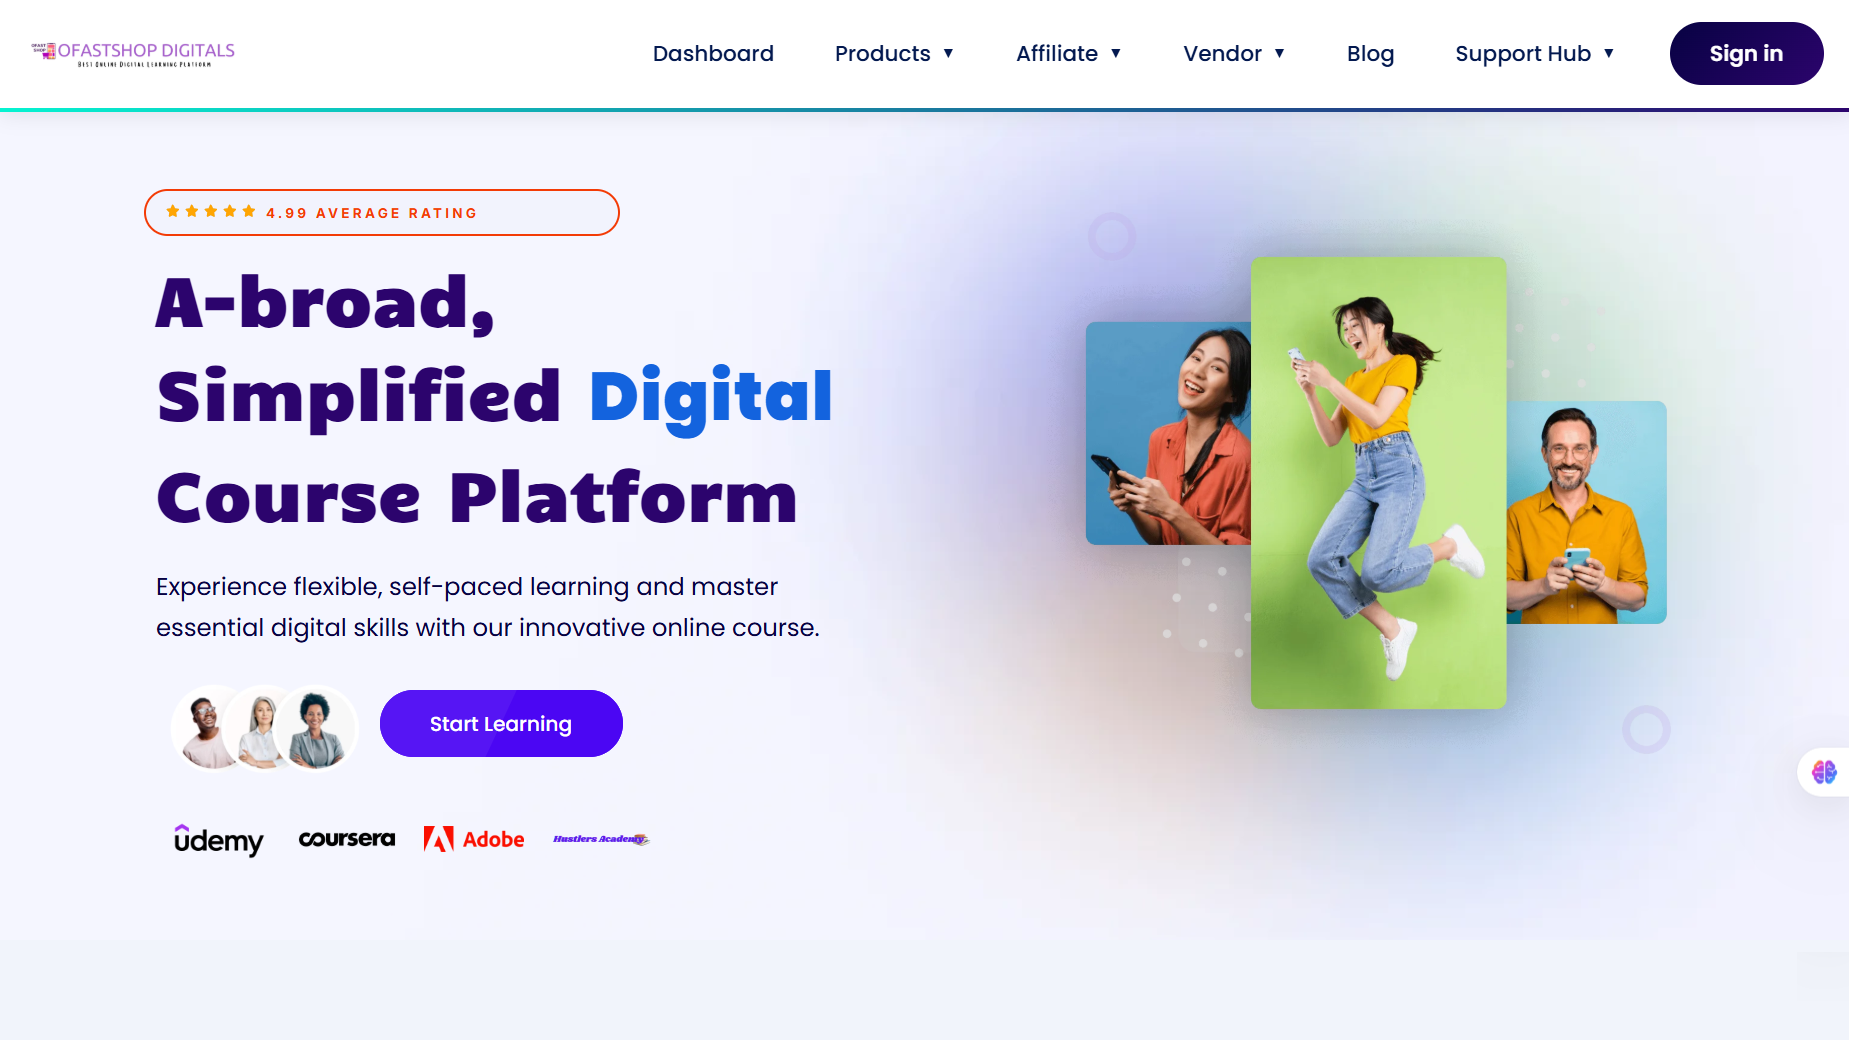
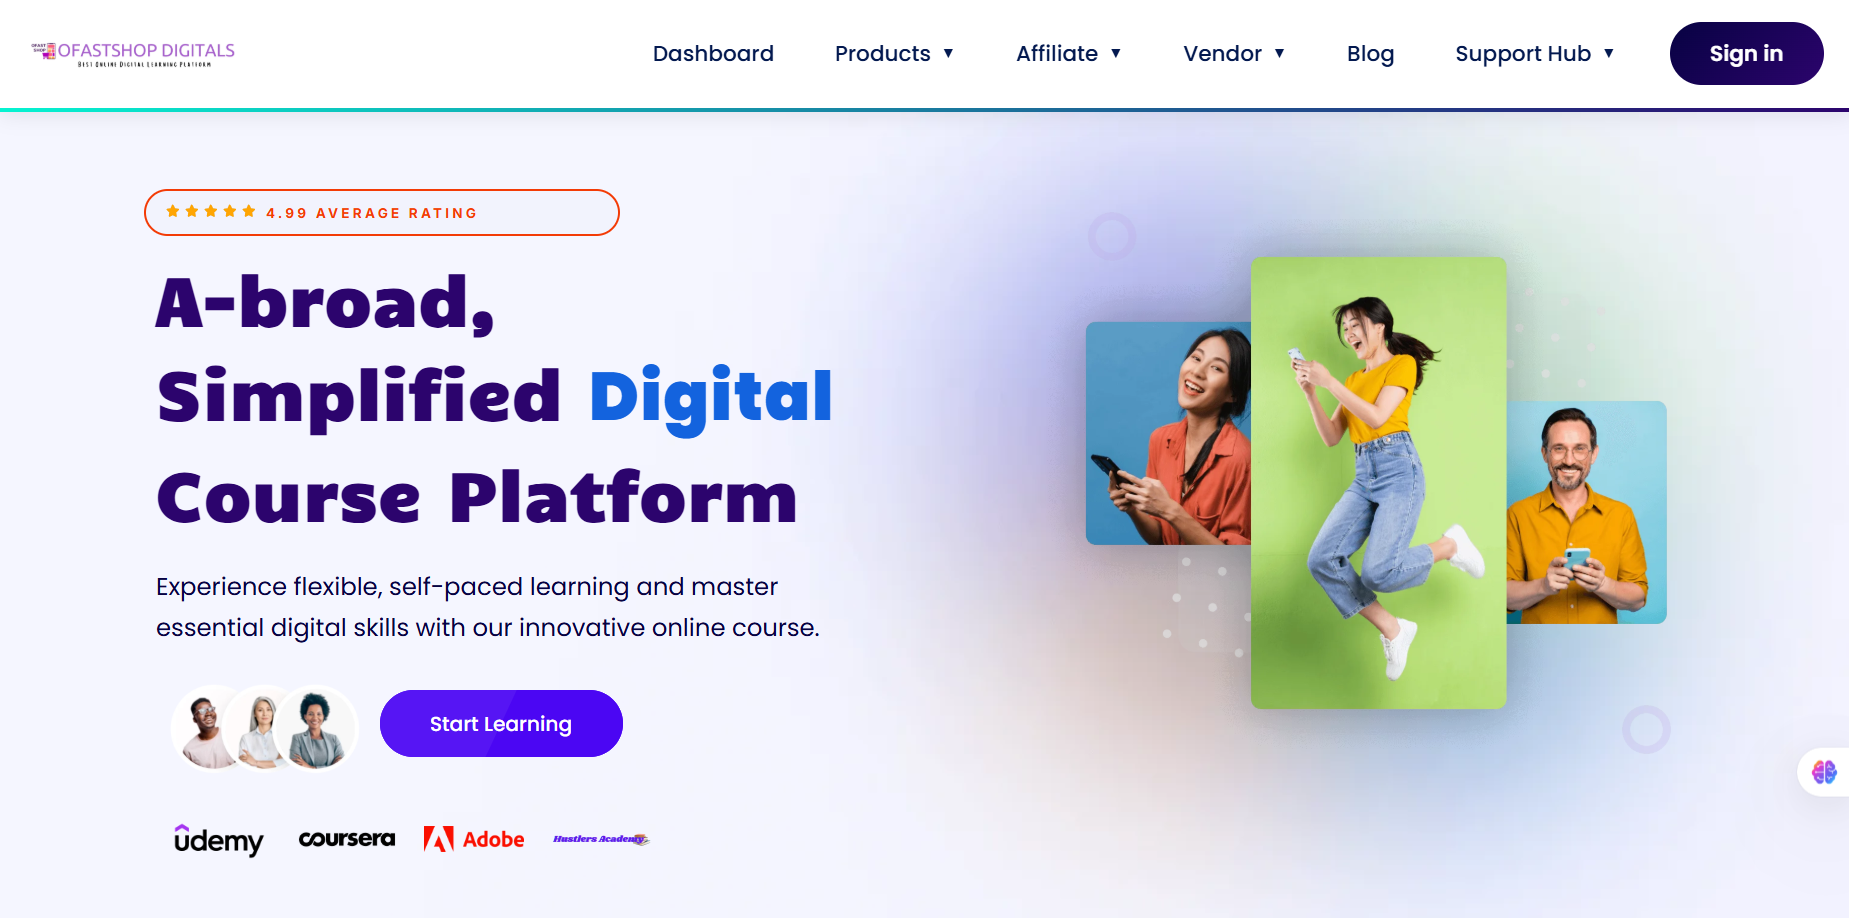
images

diff --git a/index.html b/index.html
@@ -47,7 +47,7 @@
                     </svg>
                     View My Plugins
                 </a>
-                <a href="mailto:[email redacted]" class="btn-secondary">
+                <a href="mailto:[email redacted]" class="btn-secondary">
                     <svg width="16" height="16" fill="none" stroke="currentColor" stroke-width="2" viewBox="0 0 24 24">
                         <path d="M4 4h16c1.1 0 2 .9 2 2v12c0 1.1-.9 2-2 2H4c-1.1 0-2-.9-2-2V6c0-1.1.9-2 2-2z" />
                         <polyline points="22,6 12,13 2,6" />
@@ -82,7 +82,6 @@
                 <span class="skill-pill sp-php">PHP</span>
                 <span class="skill-pill sp-wp">WordPress</span>
                 <span class="skill-pill sp-woo">WooCommerce</span>
-                <span class="skill-pill sp-cf">Cloudflare</span>
                 <span class="skill-pill sp-cf">Elementor</span>
                 <span class="skill-pill sp-css">HTML &amp; CSS</span>
                 <span class="skill-pill sp-gold">Tutor LMS</span>
@@ -96,7 +95,6 @@
                 <span class="skill-pill sp-php">PHP</span>
                 <span class="skill-pill sp-wp">WordPress</span>
                 <span class="skill-pill sp-woo">WooCommerce</span>
-                <span class="skill-pill sp-cf">Cloudflare</span>
                 <span class="skill-pill sp-cf">Elementor</span>
                 <span class="skill-pill sp-css">HTML &amp; CSS</span>
                 <span class="skill-pill sp-gold">Tutor LMS</span>
@@ -297,7 +295,7 @@
 
             <div class="project-card">
                 <div class="project-preview">
-                    <img src="images/BOFAST-WORLD-06-20-2026_08_43_AM.png" alt="Bofast World">
+                    <img src="images/bofast.png" alt="Bofast World">
                 </div>
                 <div class="project-body">
                     <div class="project-type">Agency Website</div>